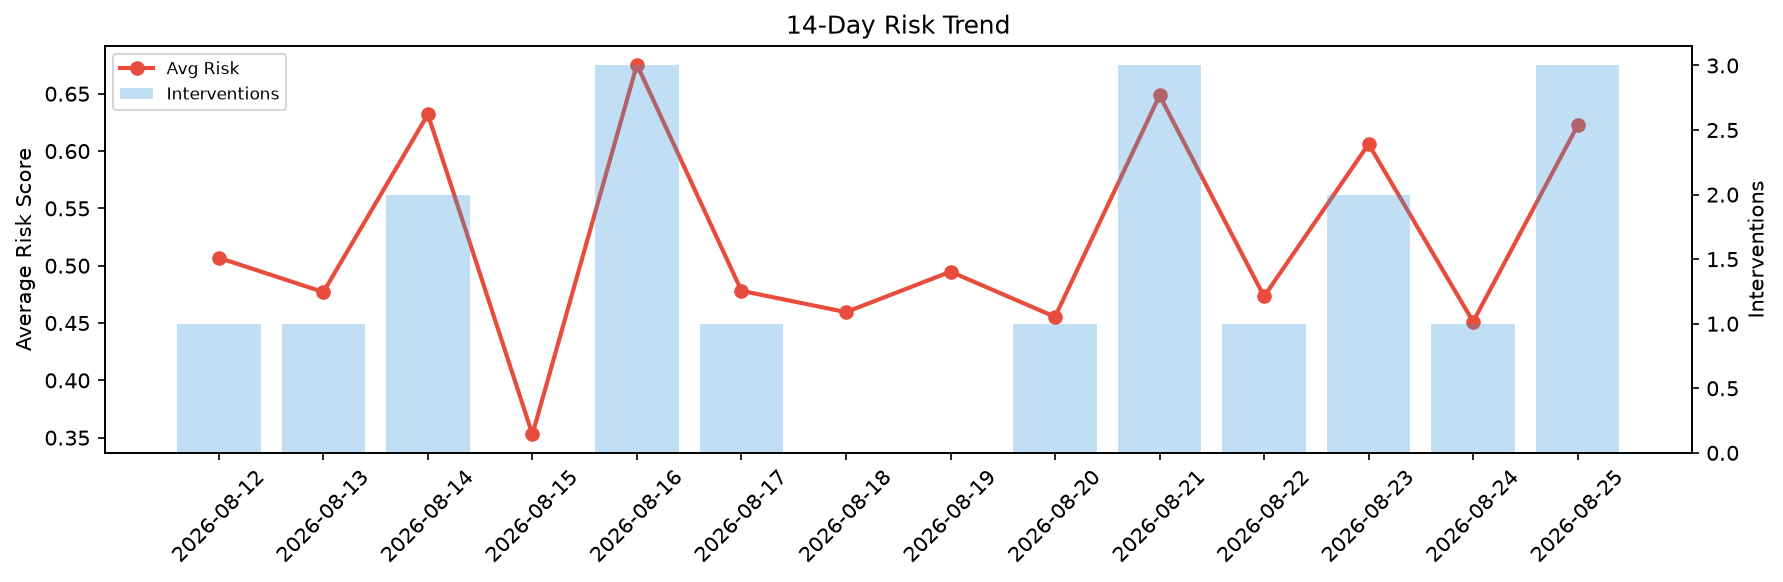
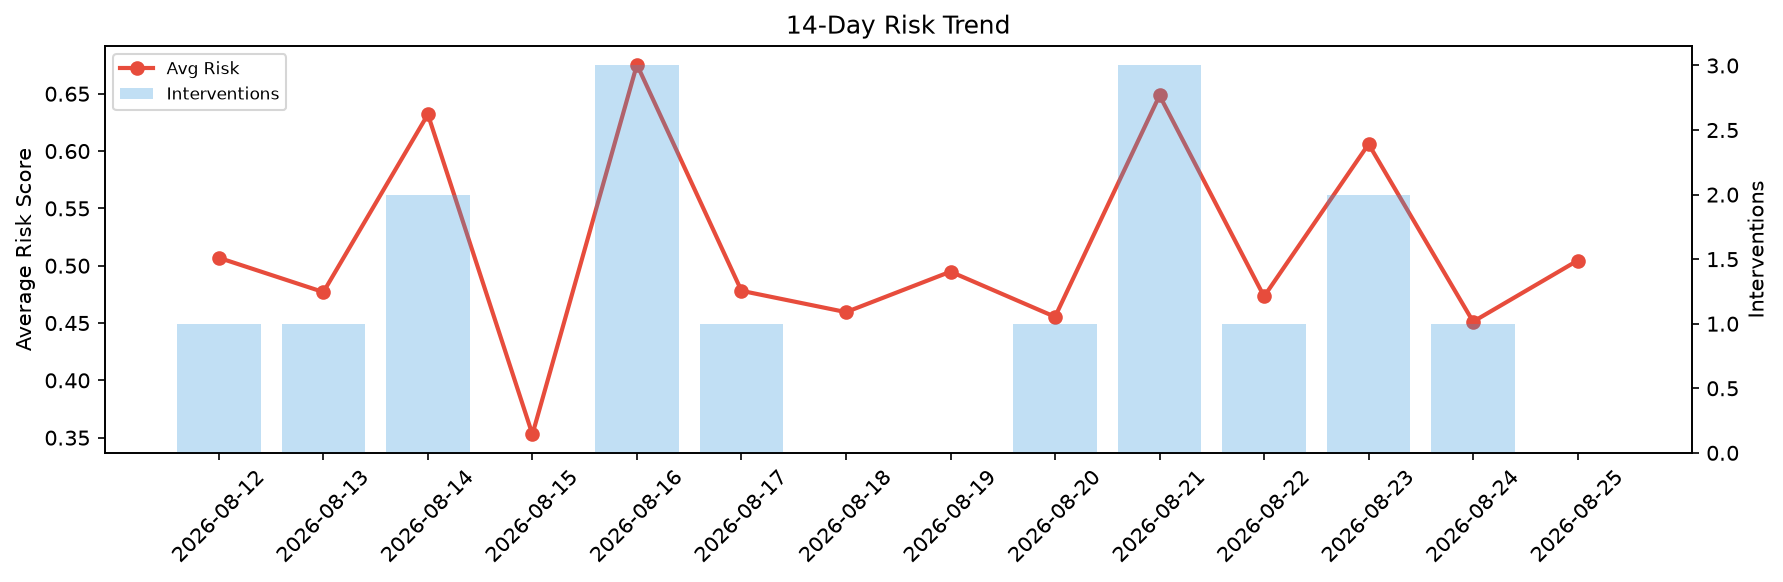
agent-improvement: daily cycle 2026-08-25T08:59

Changed region(s): [[0.8329, 0.0928, 0.9254, 0.8041]]

diff --git a/logs/2026-08-25.md b/logs/2026-08-25.md
@@ -1,6 +1,6 @@
 # Agent Improvement Report — 2026-08-25
 
-**Cycle ID:** `17d21e18` | **Avg Risk:** 0.6223 | **Interventions:** 3/4
+**Cycle ID:** `c5860985` | **Avg Risk:** 0.5045 | **Interventions:** 0/4
 
 ![Dashboard](2026-08-25_dashboard.png)
 
@@ -10,18 +10,18 @@
 
 | Domain | Risk Score | Decision | Alerts |
 |--------|-----------|----------|--------|
-| code_review | 0.4276 | monitor | duplication |
-| incident_response | 0.6976 | intervene | mttr |
-| data_pipeline | 0.7113 | intervene | freshness |
-| deployment | 0.6527 | intervene | rollback_rate |
+| code_review | 0.4605 | monitor | none |
+| incident_response | 0.563 | monitor | none |
+| data_pipeline | 0.4283 | monitor | schema_drift |
+| deployment | 0.5661 | monitor | latency_p99 |
 
 ## Delta vs Yesterday
 
 | Domain | Today | Yesterday | Change |
 |--------|-------|-----------|--------|
-| code_review | 0.4276 | 0.1948 | 📈 119.5% |
-| incident_response | 0.6976 | 0.7263 | 📉 -4.0% |
-| data_pipeline | 0.7113 | 0.4352 | 📈 63.4% |
-| deployment | 0.6527 | 0.4487 | 📈 45.5% |
+| code_review | 0.4605 | 0.1948 | 📈 136.4% |
+| incident_response | 0.563 | 0.7263 | 📉 -22.5% |
+| data_pipeline | 0.4283 | 0.4352 | 📉 -1.6% |
+| deployment | 0.5661 | 0.4487 | 📈 26.2% |
 
 **Refinement:** `{'adjustment': 'tighten_thresholds', 'trend': 'degrading', 'window': 4}`
